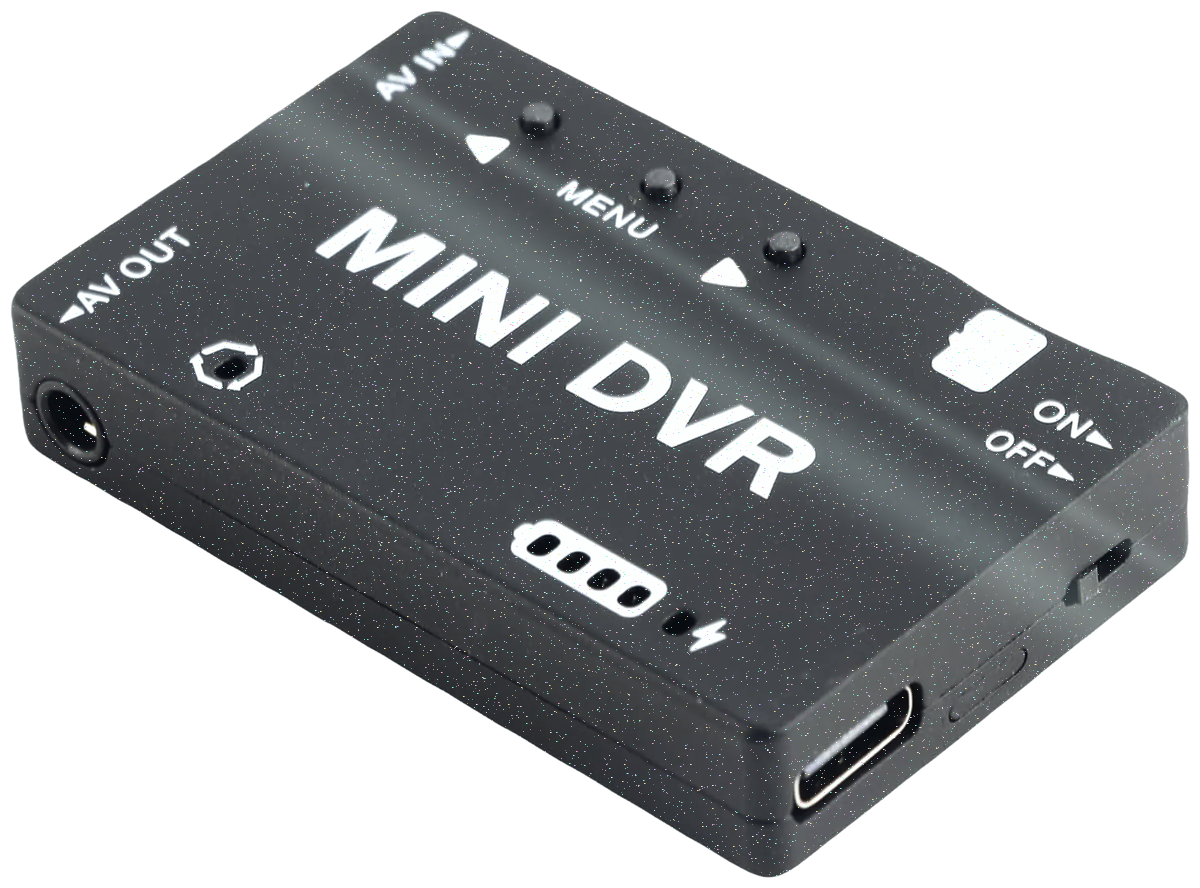
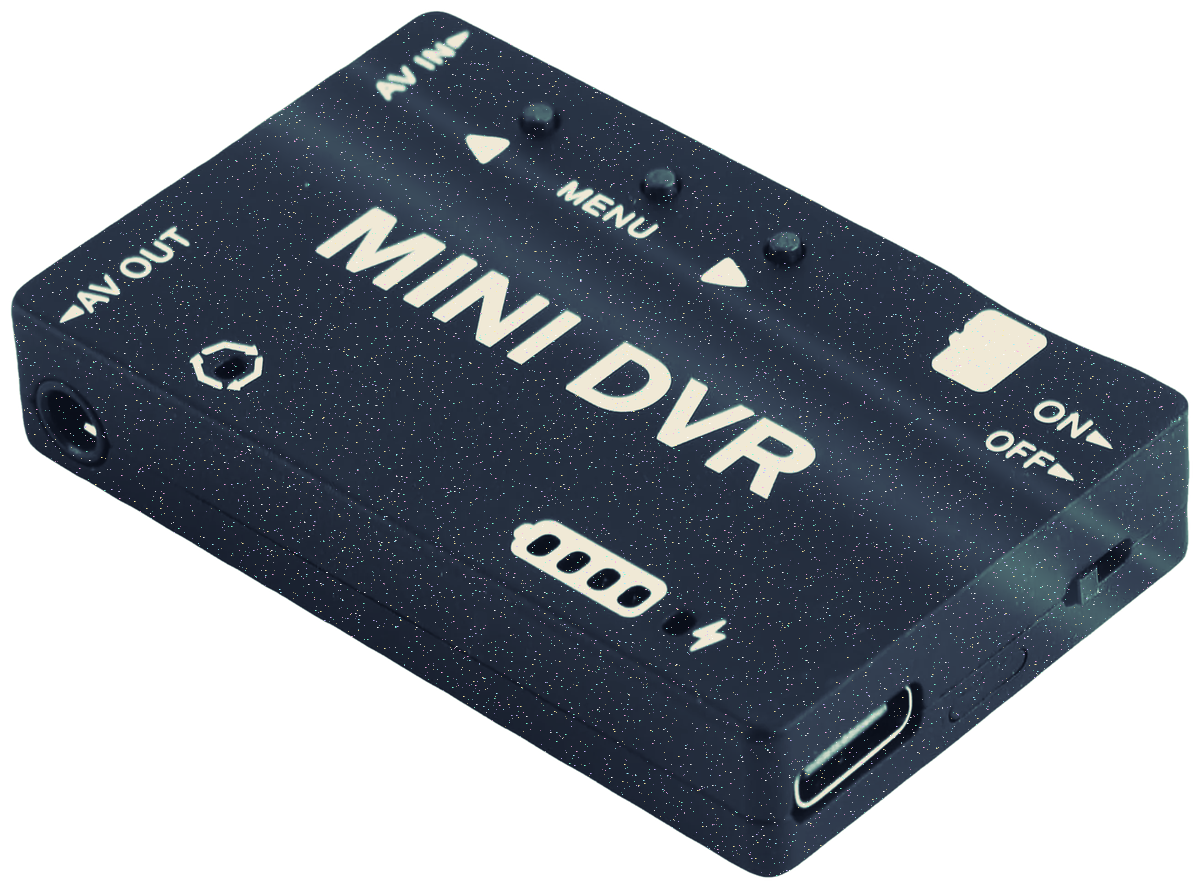
Web hero: palette-tinted glitter Mini DVR
Claude-Session: https://claude.ai/code/session_01M8Juc6vv2kRwVzJNAuyEW1

diff --git a/tools/cutout_dvr.py b/tools/cutout_dvr.py
@@ -32,6 +32,12 @@ yy, xx = np.mgrid[0:H, 0:Wc].astype(np.float32)
 d = (xx * .62 - yy) / Wc
 g = np.exp(-((d - .05) / .035) ** 2) * .22 + np.exp(-((d - .13) / .012) ** 2) * .16
 c = 1 - (1 - c) * (1 - g[..., None] * np.array([.85, 1, .97]))
+if '--tint' in sys.argv:                                   # gradient-map to the GR8DVR palette: navy blacks, slate mids, mint gloss, beige print
+    stops = np.array([0, .18, .42, .66, .86, 1.0])
+    cols = np.array([(6, 10, 20), (24, 32, 48), (47, 61, 82), (96, 150, 140), (196, 214, 196), (239, 230, 208)]) / 255
+    Lc = np.clip(c @ np.array([.299, .587, .114]), 0, 1)
+    mapped = np.stack([np.interp(Lc, stops, cols[:, i]) for i in range(3)], -1)
+    c = mapped * .88 + c * .12
 out_im = Image.fromarray((np.clip(c, 0, 1) * 255).astype(np.uint8)).convert('RGBA')
 out_im.putalpha(alpha)
 out_im = out_im.resize((W, round(H * W / Wc)), Image.LANCZOS)
